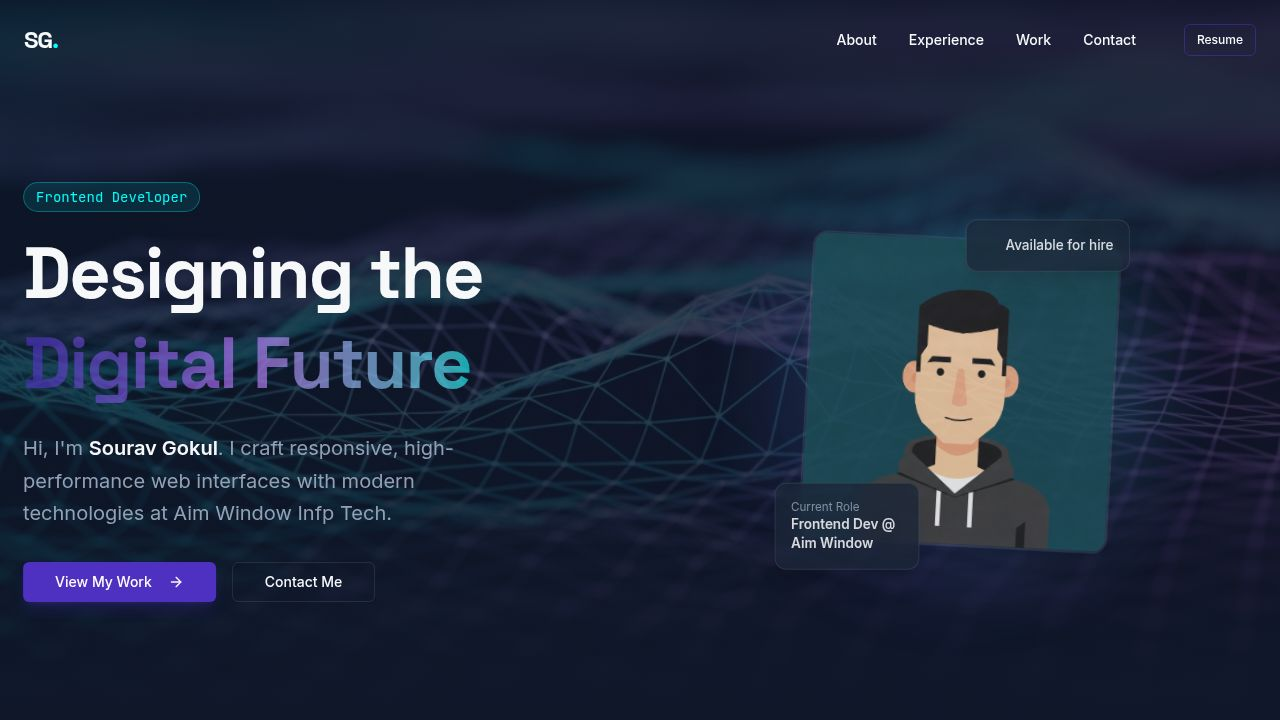
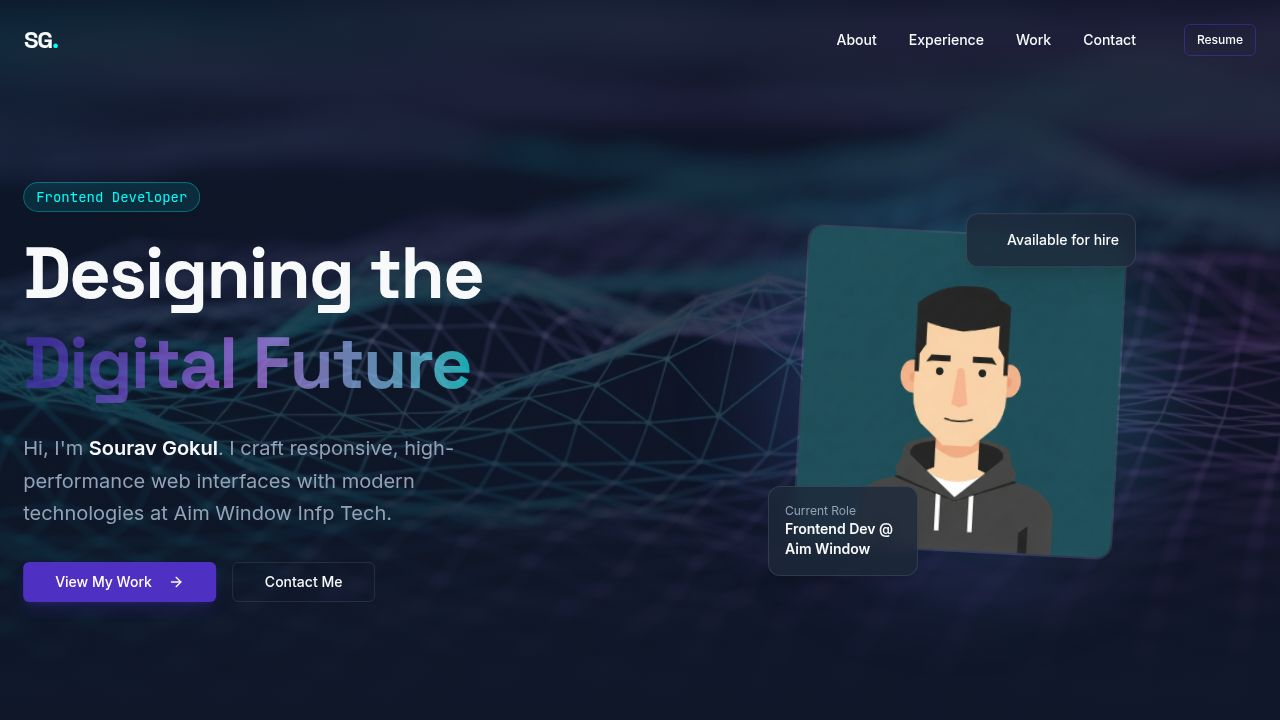
Animate profile image sliding from right to left
Update Hero component to implement a diagonal slide animation for the profile image, moving it from the right side of the Hero section to the left side of the About Me section using framer-motion hooks.

Replit-Commit-Author: Agent
Replit-Commit-Session-Id: 0dc30022-e0ef-49e5-a8ae-48242a11dc91
Replit-Commit-Checkpoint-Type: full_checkpoint
Replit-Commit-Event-Id: c4bce64e-1686-47a6-9901-9ce6323b7727
Replit-Commit-Screenshot-Url: https://storage.googleapis.com/screenshot-production-us-central1/255744d0-decd-418c-ab8f-02d3221841d8/0dc30022-e0ef-49e5-a8ae-48242a11dc91/CImokSo
Replit-Helium-Checkpoint-Created: true

diff --git a/client/src/components/Hero.tsx b/client/src/components/Hero.tsx
@@ -10,8 +10,8 @@ export default function Hero() {
     offset: ["start start", "end start"],
   });
 
-  // Transform for the image to "drag" down to About section
-  // It will move from its initial position to a position further down
+  // Slide from right to left
+  const x = useTransform(scrollYProgress, [0, 1], [0, -600]);
   const y = useTransform(scrollYProgress, [0, 1], [0, 800]);
   const scale = useTransform(scrollYProgress, [0, 0.5], [1, 0.8]);
   const opacity = useTransform(scrollYProgress, [0, 0.8], [1, 0]);
@@ -68,7 +68,7 @@ export default function Hero() {
 
           <div className="relative hidden md:block">
             <motion.div
-              style={{ y, scale, opacity }}
+              style={{ x, y, scale, opacity }}
               className="relative w-80 h-80 mx-auto z-20"
             >
               <div className="absolute inset-0 bg-gradient-to-tr from-primary to-accent rounded-full blur-3xl opacity-30 animate-pulse" />
